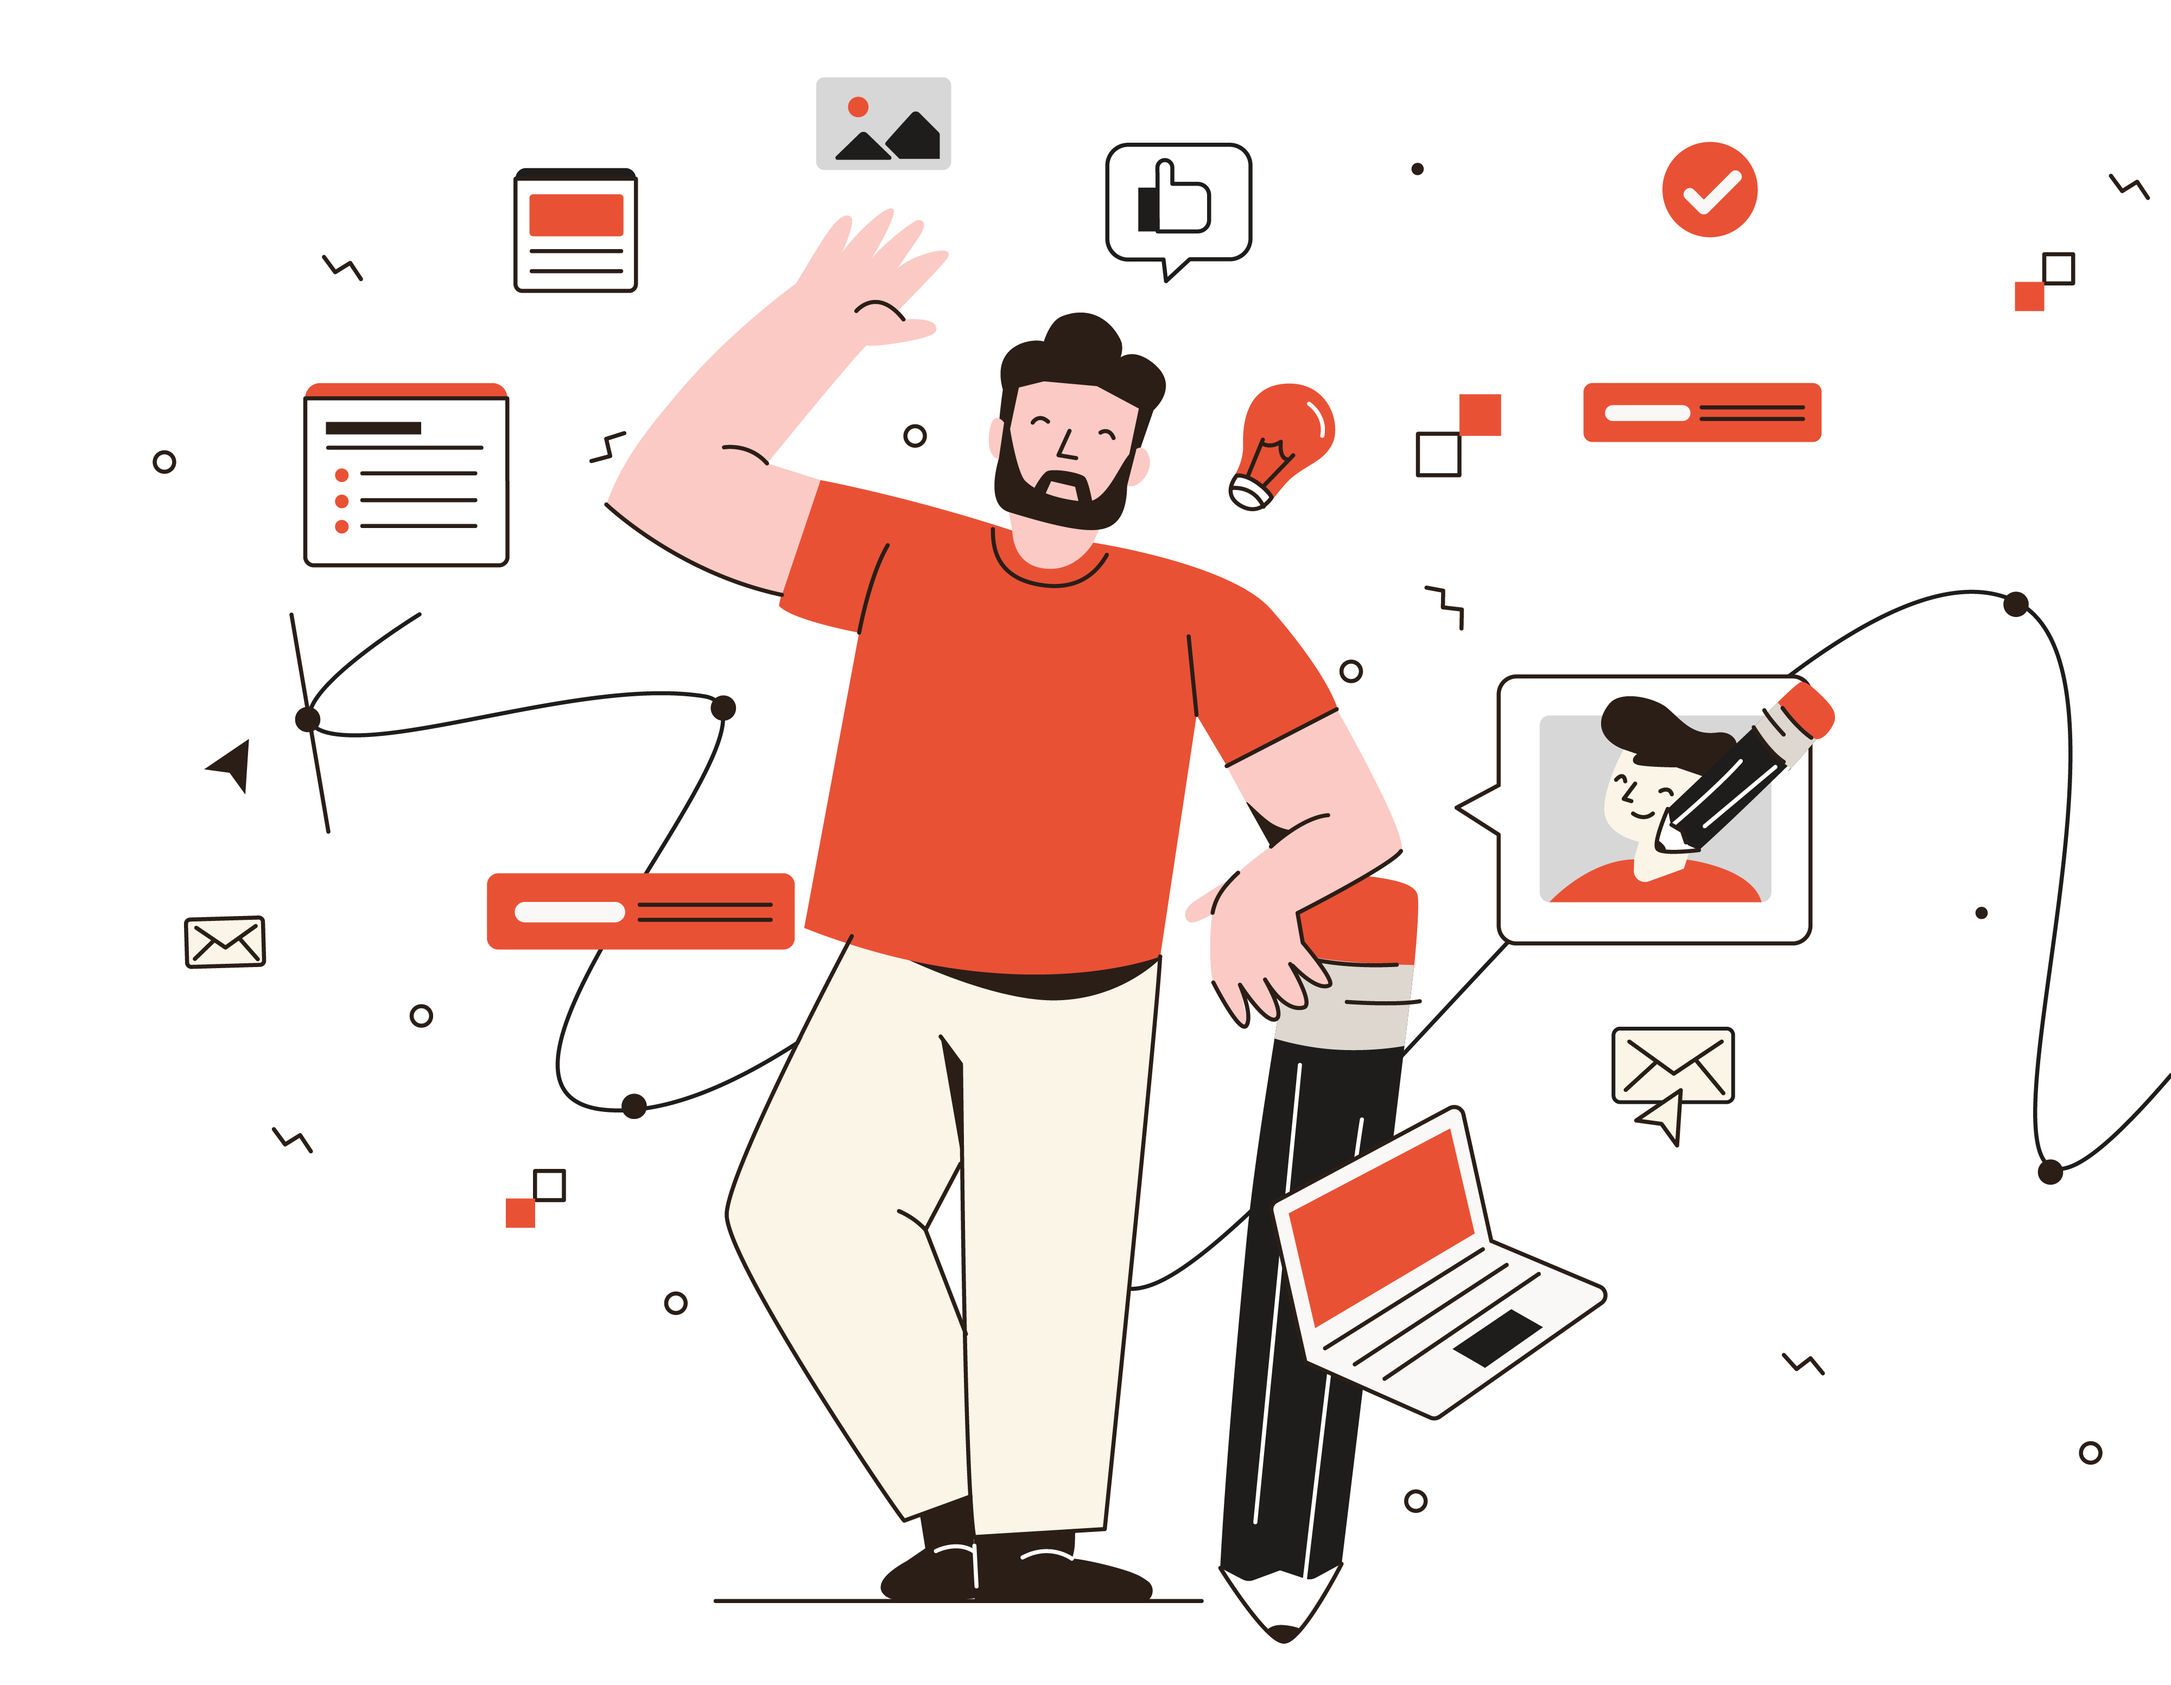
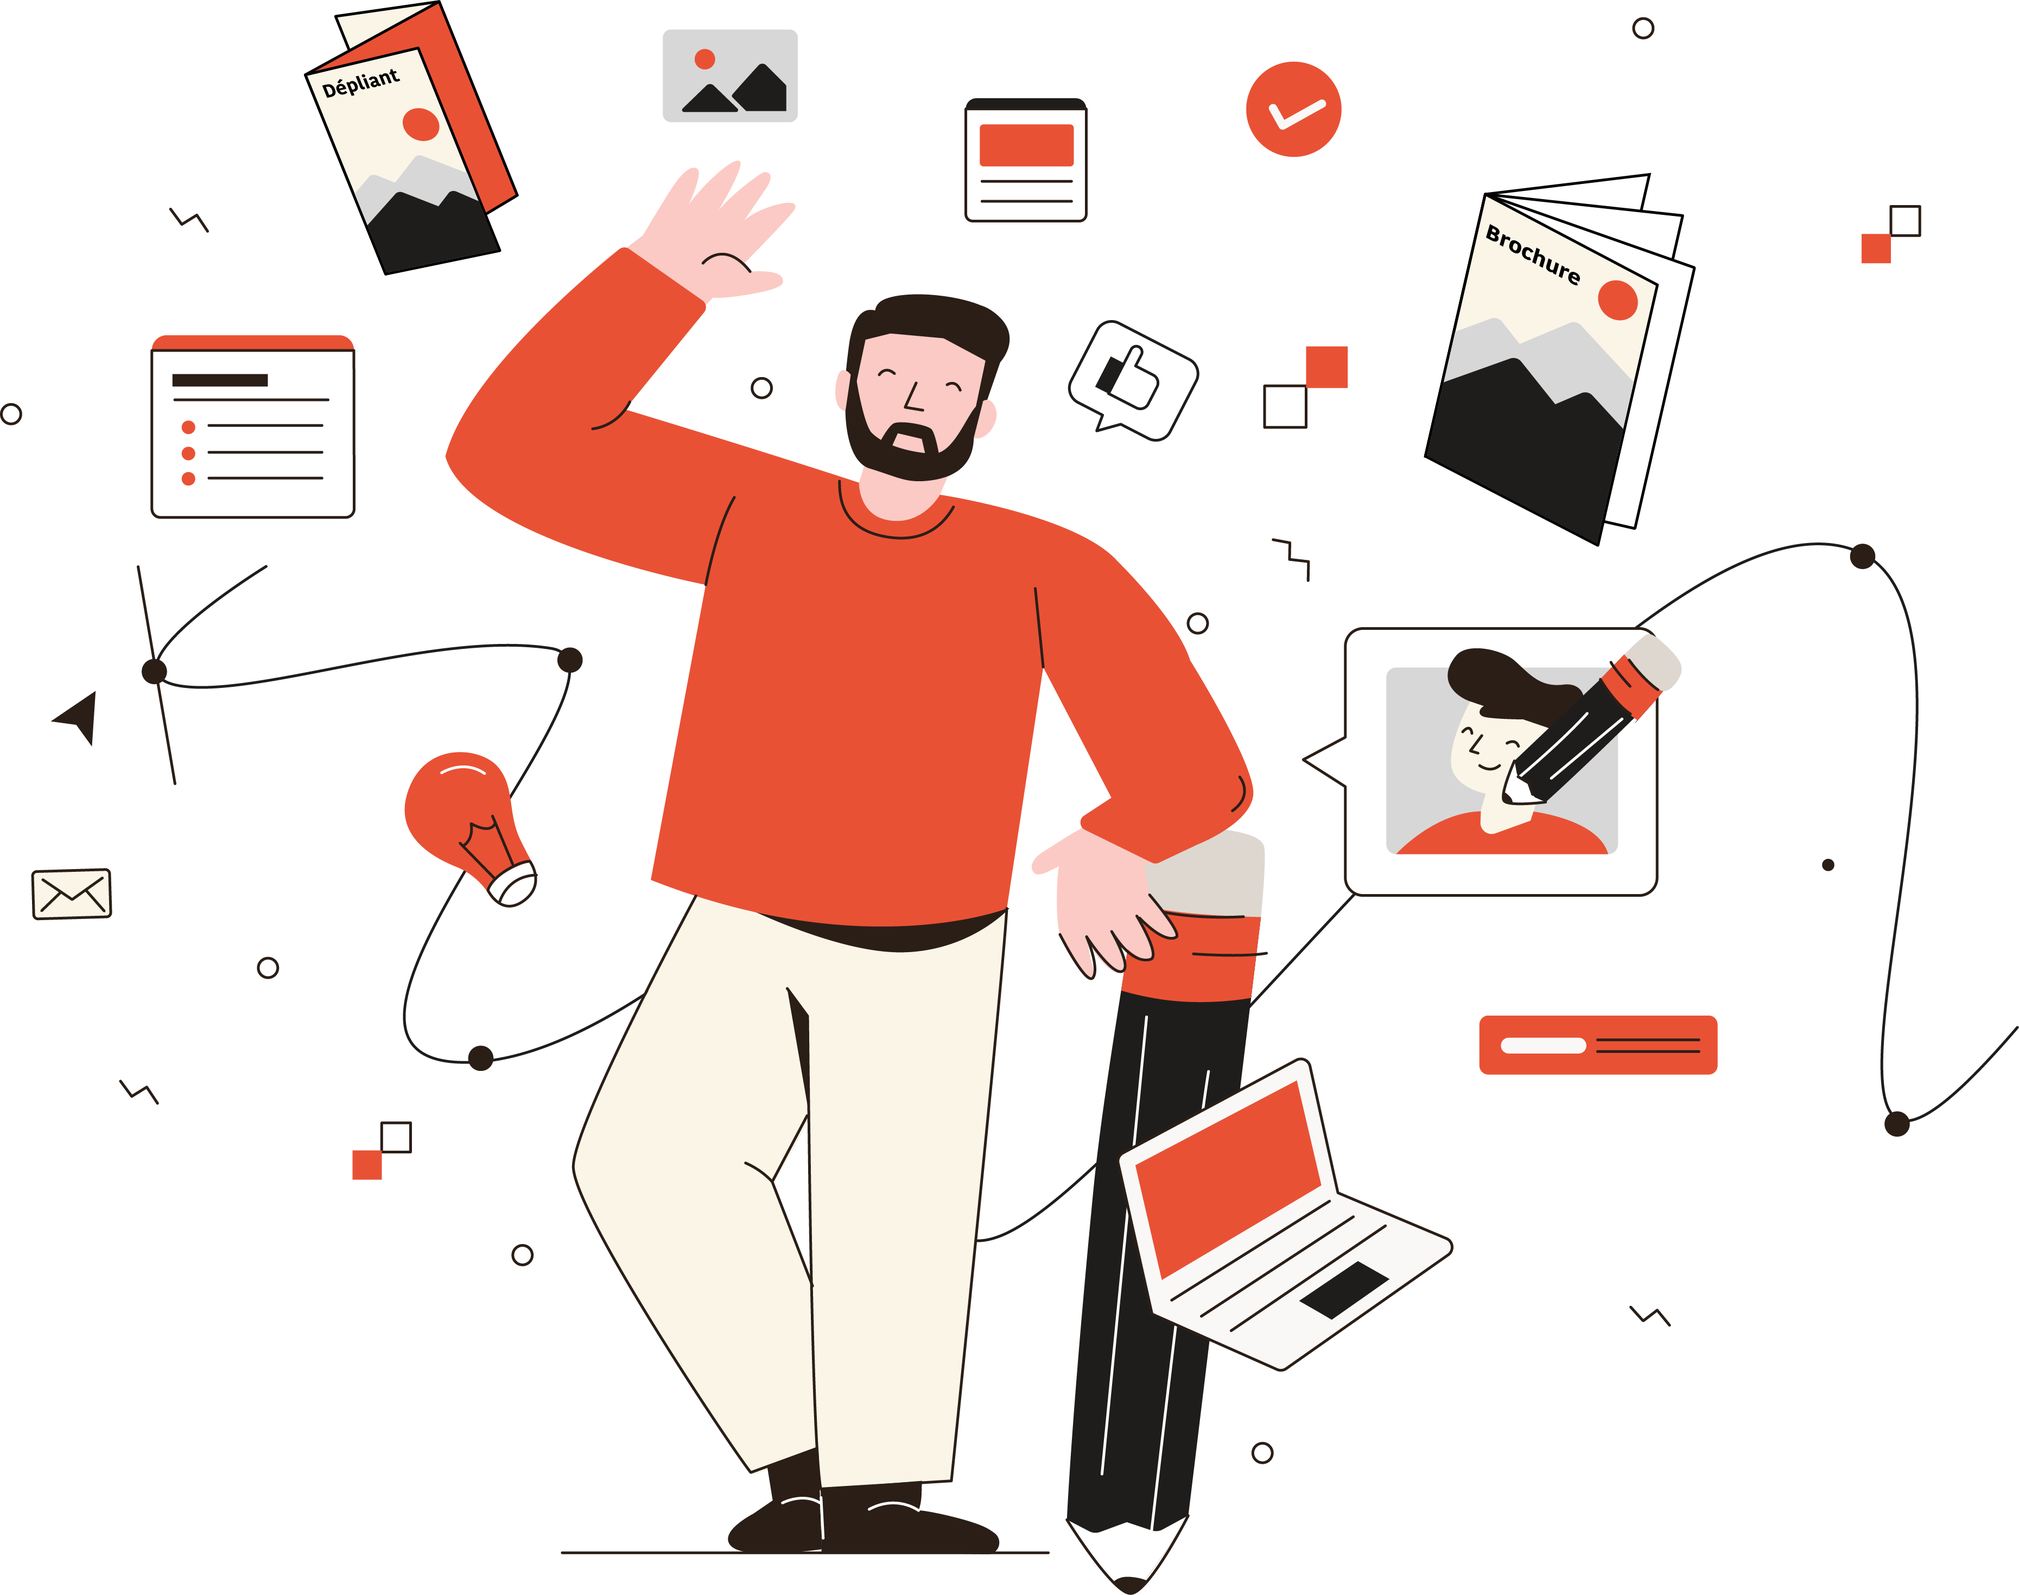
frontend changed some css and structure points, backend tested in prod

diff --git a/frontend/index.html b/frontend/index.html
@@ -31,8 +31,10 @@
 		<section id="hero" class="hero">
 			<div class="container hero-inner">
 				<h1 class="hero-title">
-					Accompagner chaque entreprise,<br>
-      				quelle que soit sa taille, dans la création<br>
+  					<span class="line line-1">Accompagner</span>
+  					<span class="line line-2">chaque entreprise,<br></span>
+  					<span class="line line-3">quelle que soit sa taille,</span>
+  					<span class="line line-4">dans la création<br></span>
 					<span class="hero-highlight">
 						<span id="typewriter"></span>
 					</span>
@@ -52,15 +54,15 @@
         				<img src="./assets/public/illustration_studio_icom_intro.webp" alt="Illustration d’un graphiste entouré d’éléments de communication" loading="lazy">
       				</div>
 					<div class="intro-text-block">
-        				<h3 class="intro-subtitle">Bonjour, je me présente, Hugo Chatry.</h3>
-						<p>Après plusieurs années passées en tant que graphiste, j’ai ressenti le besoin d’aller plus loin,
-          				de comprendre ce qui se cache derrière une communication vraiment efficace.</p>
-						<p>J’ai alors fait le pari de reprendre mes études pour me former à la stratégie de communication, la gestion de projet
-          				et explorer le potentiel des outils créatifs basés sur l’intelligence artificielle.</p>
-						<p>Aujourd’hui, je poursuis mon Mastère en Direction Artistique et Design Digital en alternance,
-						tout en développant la voie de l'entrepreneuriat avec ce projet&nbsp;: Studio Icom.</p>
-						<p>Cette micro-entreprise a été créée dans le but de proposer mes compétences et mon expérience afin d’accompagner
-          				les professionnels dans la création de supports de communication imprimés et digitaux.</p>
+        				<h3 class="intro-subtitle">Une solution créative pour tous vos supports.</h3>
+						<p>Bonjour, je me présente, Hugo CHATRY, <strong>graphiste</strong> et fondateur de Studio icom.</p>
+						<p>À travers ce studio de création visuelle, mon ambition est de vous <strong>offrir des solutions sur&#8209;mesure</strong>
+						dans la <strong>conception de supports graphiques</strong> structurés et alignés avec vos besoins et vos objectifs stratégiques.</p>
+						<p>Parmi les nombreux projets sur lesquels Studio icom peut vous accompagner,
+						la <strong>publication automatisée via EasyCatalog</strong> et la <strong>conception de supports digitaux</strong> totalement responsive
+						figurent parmi ses compétences clés. Ces atouts apportent une réelle valeur ajoutée à vos supports en alliant <strong>performance, cohérence</strong> et <strong>efficacité.</strong></p>
+						<p>Alors, si vous avez un catalogue à optimiser ou une communication à dynamiser grâce à un support interactif
+						et multicanal, <strong>contactez-moi !</strong> Je serai ravi d’échanger avec vous et de donner vie à votre projet.</p>
 
 						<a href="https://www.behance.net/hugochatry1" rel="noopener noreferrer" target="_blank" class="btn-intro">Découvrez mon Behance</a>
       				</div>

diff --git a/frontend/style.css b/frontend/style.css
@@ -47,7 +47,11 @@ body{
 
 main {padding-top: 55px;}
 
-section {scroll-margin-top: 60px;}
+section {scroll-margin-top: 70px;}
+
+strong {
+  font-weight: 700;
+  color: var(--secondary);}
 
 
 
@@ -74,7 +78,7 @@ section {scroll-margin-top: 60px;}
 
 .logo img{
   display: block;
-  height: 70px;}
+  height: 60px;}
 
 .main-nav ul{
   list-style: none;
@@ -105,7 +109,7 @@ section {scroll-margin-top: 60px;}
   align-items: center;
   justify-content: center;
   background-color: var(--secondary);
-  padding: 0.6rem 1.5rem;
+  padding: 0.6rem 1rem 0.55rem;
   border-radius: 5px;
   text-transform: uppercase;
   text-decoration: none;
@@ -216,10 +220,12 @@ section {scroll-margin-top: 60px;}
 
 .hero-title{
   max-width: 50rem;
-  font-weight: 400;
-  font-size: clamp(1.8rem, 2.4vw, 2.4rem);
-  line-height: 1.3;
+  font-weight: 300;
+  font-size: clamp(1.8rem, 3vw, 2.4rem);
+  line-height: 1.25;
   margin-bottom: 2.5rem;}
+
+.hero-title .line {display: inline;}
 
 .hero-highlight{
   display: block;
@@ -233,13 +239,13 @@ section {scroll-margin-top: 60px;}
   justify-content: center;
   background-color: var(--secondary);
   color: var(--background);
-  padding: 0.8rem 2.5rem;
+  padding: 0.8rem 2rem 0.75rem;
   border-radius: 5px;
   text-transform: uppercase;
   text-decoration: none;
   line-height: 1;
   font-weight: 700;
-  font-size: 0.9rem;
+  font-size: 1rem;
   transition: 0.3s;}
 
 .btn-hero:hover{
@@ -260,7 +266,21 @@ section {scroll-margin-top: 60px;}
     padding: 4rem 0 3rem;}
 
   .hero-title {
-    font-size: 1.5rem;}}
+    font-size: 1.6rem;}
+  
+  .hero-title .line {
+    display: block;}
+  }
+
+@media (max-width: 320px) {
+  .line, #typewriter {
+    font-size: 1.35rem;
+  }
+
+  h2 {
+    font-size: 1.25rem;
+  }
+}
 
 /*---SECTION HERO END---*/
 
@@ -282,7 +302,7 @@ section {scroll-margin-top: 60px;}
 
 .section-title {
   font-size: clamp(1.6rem, 2.1vw, 2.2rem);
-  font-weight: 700;
+  font-weight: 900;
   color: var(--primary);
   margin: 0;}
 
@@ -339,13 +359,13 @@ section {scroll-margin-top: 60px;}
   justify-content: center;
   background-color: var(--secondary);
   color: var(--background);
-  padding: 0.8rem 1.5rem;
+  padding: 0.8rem 2rem 0.70rem;
   border-radius: 5px;
   text-transform: uppercase;
   text-decoration: none;
   line-height: 1;
   font-weight: 700;
-  font-size: 0.9rem;
+  font-size: 1rem;
   margin-top: 0.75rem;
   transition: 0.3s;}
 
@@ -502,14 +522,14 @@ section {scroll-margin-top: 60px;}
   justify-content: center;
   background-color: var(--secondary);
   color: var(--background);
-  padding: 0.8rem 1.5rem;
+  padding: 0.6rem 1.5rem 0.55rem;
   border-radius: 5px;
   border: none;
   text-transform: uppercase;
   text-decoration: none;
   line-height: 1;
   font-weight: 700;
-  font-size: 0.95rem;
+  font-size: 1rem;
   cursor: pointer;
   width: auto;
   max-width: fit-content;

diff --git a/frontend/mentions-legales.html b/frontend/mentions-legales.html
@@ -31,27 +31,25 @@
 
     <main class="legal-page">
         <h1>Mentions légales</h1>
-        <p>Conformément aux dispositions des articles 6-III et 19 de la loi n° 2004-575 du 21 juin 2004 pour la Confiance dans l'économie numérique (LCEN), nous informons les utilisateurs du site <strong>Studio Icom</strong> des éléments suivants.</p>
+        <p>Conformément aux dispositions des articles 6-III et 19 de la loi n° 2004-575 du 21 juin 2004 pour la Confiance dans l'économie numérique (LCEN), nous informons les utilisateurs du site Studio icom des éléments suivants.</p>
 
         <h2>Éditeur du site</h2>
         <p>
-            <strong>Raison sociale :</strong> Studio Icom (micro-entreprise)<br>
-            <strong>Nom du dirigeant :</strong> Hugo Chatry<br>
-            <strong>Adresse du siège social :</strong> [Indiquez votre adresse complète] — <em>exemple : 12 rue des Artisans, 75001 Paris</em><br>
-            <strong>Numéro de téléphone :</strong> [Facultatif — indiquez votre téléphone professionnel]<br>
-            <strong>Adresse e-mail :</strong> <a href="mailto:icom.create@gmail.com">icom.create@gmail.com</a><br>
-            <strong>Numéro d’immatriculation :</strong> [Votre numéro SIRET ou RCS] — <em>exemple : 123 456 789 00012</em><br>
-            <strong>Numéro de TVA intracommunautaire :</strong> [Le cas échéant, ex : FR 12345678901]
+            Raison sociale : Studio Icom (micro-entreprise)<br>
+            Nom du dirigeant : Hugo Chatry<br>
+            Adresse du siège social : 60 rue François 1er – 75008 Paris<br>
+            Adresse e-mail : <a href="mailto:icom.create@gmail.com">icom.create@gmail.com</a><br>
+            Numéro d’immatriculation : 994 843 720 00016<br>
         </p>
 
         <h2>Directeur de la publication</h2>
-        <p>Le directeur de la publication est <strong>Hugo Chatry</strong>, en qualité de micro-entrepreneur.</p>
+        <p>Le directeur de la publication est Hugo Chatry, en qualité de micro-entrepreneur.</p>
 
         <h2>Hébergement du site</h2>
         <p>
-            <strong>Hébergeur :</strong> [Nom de votre hébergeur, ex : OVH SAS, GitHub Pages, etc.]<br>
-            <strong>Adresse :</strong> [Adresse complète de l’hébergeur]<br>
-            <strong>Téléphone :</strong> [Numéro de l’hébergeur]
+            Hébergeur : [Nom de votre hébergeur, ex : OVH SAS, GitHub Pages, etc.]<br>
+            Adresse : [Adresse complète de l’hébergeur]<br>
+            Téléphone : [Numéro de l’hébergeur]
         </p>
         <!-- Exemple avec OVH : 
         <p>

diff --git a/frontend/script.js b/frontend/script.js
@@ -88,6 +88,13 @@ if (contactForm) {
         body: JSON.stringify(formData)
       });
 
+      // Pour les tests
+      // const response = await fetch('http://localhost:3001/api/contact', {
+      //   method: 'POST',
+      //   headers: { 'Content-Type': 'application/json' },
+      //   body: JSON.stringify(formData)
+      // });
+
       const data = await response.json();
 
       if (response.ok && data.success) {

diff --git a/backend/server.js b/backend/server.js
@@ -7,6 +7,7 @@ import nodemailer from 'nodemailer';
 
 dotenv.config();
 
+
 const app = express();
 const PORT = process.env.PORT || 3001;
 
